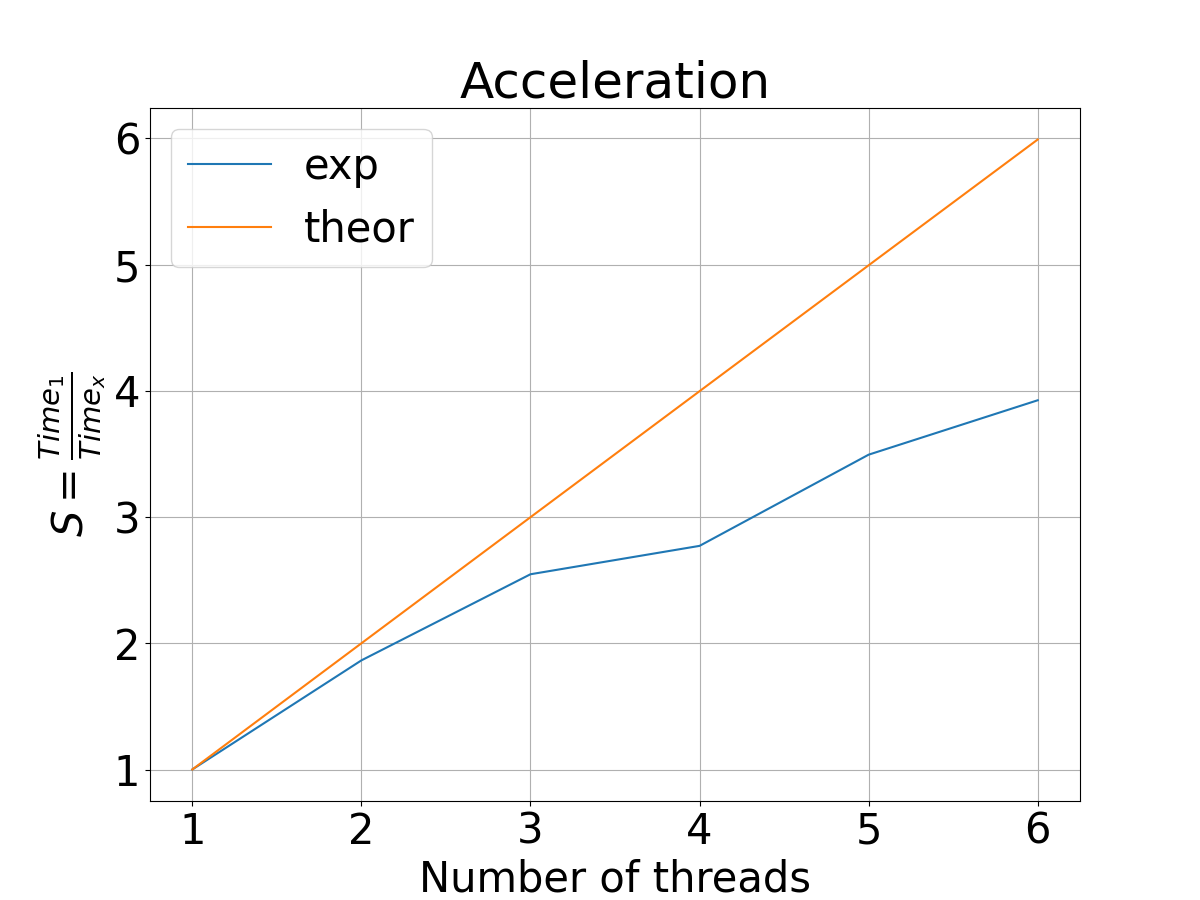
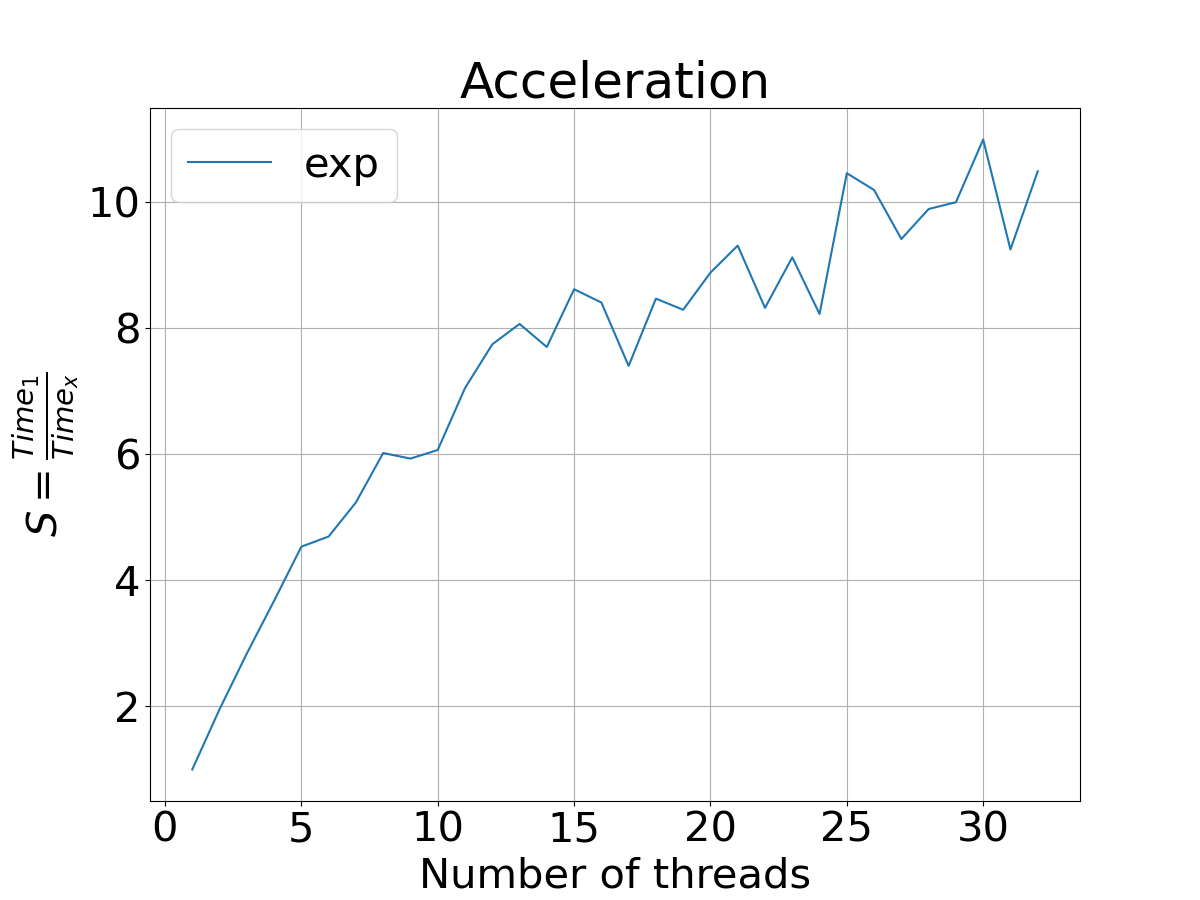
results with 32 kernels

diff --git a/parprog/LAB/main.c b/parprog/LAB/main.c
@@ -3,8 +3,8 @@
 #include <stdlib.h>
 #include <math.h>
 
-#define ISIZE 10000
-#define JSIZE 10000
+#define ISIZE 1000
+#define JSIZE 1000
 
 
 /**
